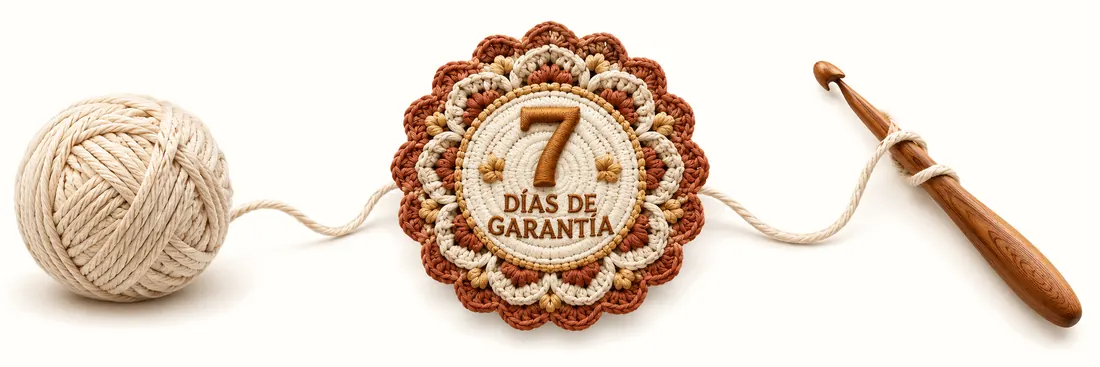
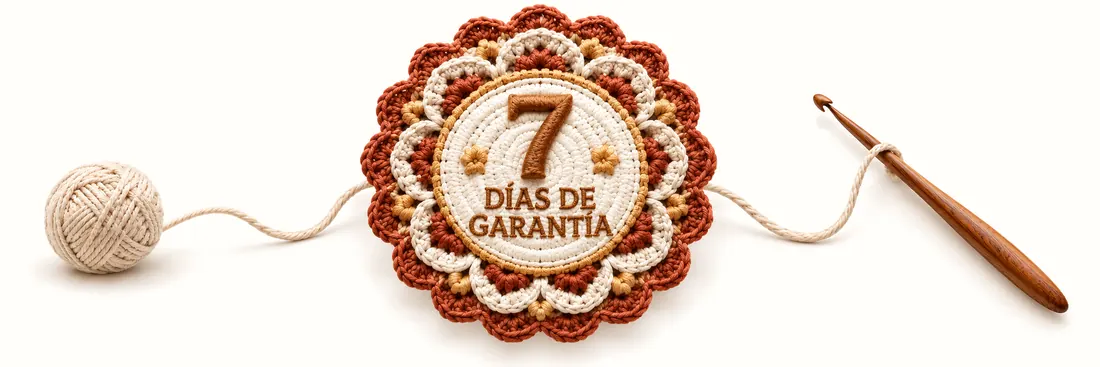
Página 40 bolsas: selo de garantia refeito (novelo menor, selo maior, agulha fina)

diff --git a/paginas/40-bolsos/index.html b/paginas/40-bolsos/index.html
@@ -190,7 +190,7 @@ section{padding:clamp(52px,8vw,96px) 0}
 .guar-box{display:flex;flex-direction:column;align-items:center;text-align:center;max-width:820px;margin:0 auto}
 .seal{width:min(680px,100%);margin-bottom:10px}
 .guar{overflow:hidden}
-@media(max-width:600px){.seal{width:155%;max-width:none;margin:0 -27.5% 6px}}
+@media(max-width:600px){.seal{width:120%;max-width:none;margin:0 -10% 6px}}
 .guar h2{font-size:clamp(1.6rem,1.3rem + 1.2vw,2.2rem);margin-bottom:10px}
 
 /* faq */
